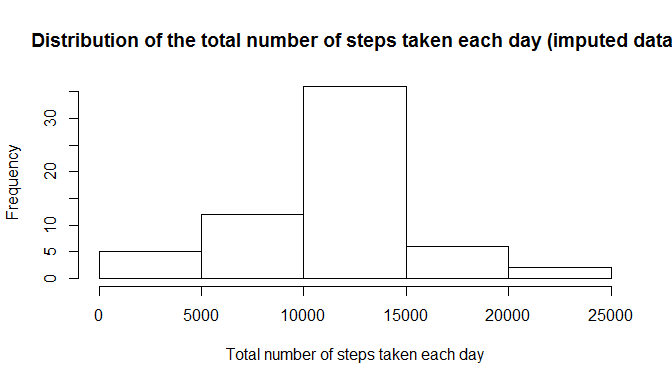
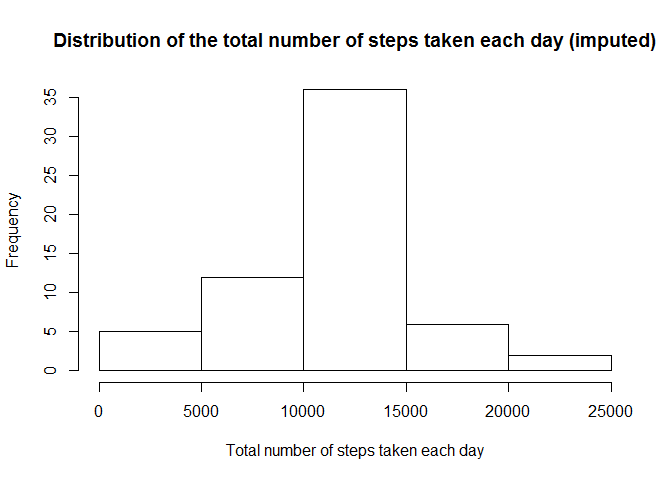
Tuning algorithm for imputing
use the match() function

diff --git a/PA1_template.html b/PA1_template.html
@@ -204,9 +204,9 @@ hr {
 <h2>Initialization</h2>
 
 <p>The following code was used to:<br/>
-(a) load the knitr package<br/>
-(b) make echo = TRUE and message = FALSE as default<br/>
-&copy; suppress scientific notation</p>
+a. load the knitr package<br/>
+b. make echo = TRUE and message = FALSE as default<br/>
+c. suppress scientific notation</p>
 
 <pre><code class="r">if (!require(&quot;knitr&quot;)){
   install.packages(&quot;knitr&quot;)
@@ -257,8 +257,8 @@ medianDailySteps = median(dailySteps$totalSteps)
 </code></pre>
 
 <p>Rounded to 2 decimal places,<br/>
-(a) the mean of the total number of steps taken per day = 9354.23<br/>
-(b) the median of the total number of steps taken per day = 10395.00</p>
+a. the mean of the total number of steps taken per day = 9354.23<br/>
+b. the median of the total number of steps taken per day = 10395.00</p>
 
 <h2>What is the average daily activity pattern?</h2>
 
@@ -299,7 +299,7 @@ plot(averageSteps5min,type=&quot;l&quot;,
 imputedActivity$imputedSteps = activity$steps
 imputedActivity = ddply(imputedActivity,&quot;interval&quot;,mutate,
                         imputedSteps = ifelse(is.na(steps),
-                        averageSteps5min[averageSteps5min$interval==interval,&quot;averageSteps&quot;],
+                        averageSteps5min[match(interval,averageSteps5min$interval),&quot;averageSteps&quot;],
                         steps))
 imputedActivity = arrange(imputedActivity,date,interval)
 </code></pre>
@@ -321,8 +321,8 @@ medianImputedDailySteps = median(imputedDailySteps$totalSteps)
 </code></pre>
 
 <p>After imputing,<br/>
-(a) the mean of the total number of steps taken per day changed from 9354.23 to 10766.19 (diff = 1411.96)<br/>
-(b) the median of the total number of steps taken per day changed from 10395.00 to 10766.19 (diff = 371.19)</p>
+a. the mean of the total number of steps taken per day changed from 9354.23 to 10766.19 (diff = 1411.96)<br/>
+b. the median of the total number of steps taken per day changed from 10395.00 to 10766.19 (diff = 371.19)</p>
 
 <h2>Are there differences in activity patterns between weekdays and weekends?</h2>
 
@@ -351,8 +351,8 @@ print(wplot)
[1 lines of base64/hex data omitted]
 
 <p>From the panel plot, it can be seen that:<br/>
-(a) the number of steps began to increase earlier for weekday, probably because the subject has to wake up earlier for work or school : )<br/>
-(b) the number of steps, from interval 1000 to 2000, seemed to be higher for weekend, probably due to a higher degree of freedom to walk around (no need to sit in a chair at work or at school)</p>
+a. the number of steps began to increase earlier for weekday, probably because the subject has to wake up earlier for work or school : )<br/>
+b. the number of steps, from interval 1000 to 2000, seemed to be higher for weekend, probably due to a higher degree of freedom to walk around (no need to sit in a chair at work or at school)</p>
 
 </body>
 

diff --git a/PA1_template.md b/PA1_template.md
@@ -1,17 +1,16 @@
 ---
-title: 'Reproducible Research: Peer Assessment 1'
-output:
+title: "Reproducible Research: Peer Assessment 1"
+output: 
   html_document:
-    keep_md: yes
-  word_document: default
+    keep_md: true
 ---
 
 ## Initialization
 
 The following code was used to:  
-(a) load the knitr package  
-(b) make echo = TRUE and message = FALSE as default  
-(c) suppress scientific notation
+a. load the knitr package  
+b. make echo = TRUE and message = FALSE as default  
+c. suppress scientific notation
 
 
 ```r
@@ -72,8 +71,8 @@ medianDailySteps = median(dailySteps$totalSteps)
 ```
 
 Rounded to 2 decimal places,  
-(a) the mean of the total number of steps taken per day = 9354.23  
-(b) the median of the total number of steps taken per day = 10395.00
+a. the mean of the total number of steps taken per day = 9354.23  
+b. the median of the total number of steps taken per day = 10395.00
 
 ## What is the average daily activity pattern?
 
@@ -122,7 +121,7 @@ imputedActivity = activity
 imputedActivity$imputedSteps = activity$steps
 imputedActivity = ddply(imputedActivity,"interval",mutate,
                         imputedSteps = ifelse(is.na(steps),
-                        averageSteps5min[averageSteps5min$interval==interval,"averageSteps"],
+                        averageSteps5min[match(interval,averageSteps5min$interval),"averageSteps"],
                         steps))
 imputedActivity = arrange(imputedActivity,date,interval)
 ```
@@ -148,8 +147,8 @@ medianImputedDailySteps = median(imputedDailySteps$totalSteps)
 ```
 
 After imputing,  
-(a) the mean of the total number of steps taken per day changed from 9354.23 to 10766.19 (diff = 1411.96)  
-(b) the median of the total number of steps taken per day changed from 10395.00 to 10766.19 (diff = 371.19)
+a. the mean of the total number of steps taken per day changed from 9354.23 to 10766.19 (diff = 1411.96)  
+b. the median of the total number of steps taken per day changed from 10395.00 to 10766.19 (diff = 371.19)
 
 ## Are there differences in activity patterns between weekdays and weekends?
 
@@ -182,5 +181,5 @@ print(wplot)
 ![plot of chunk averagestepsvsintervalwd](figure/averagestepsvsintervalwd-1.png) 
 
 From the panel plot, it can be seen that:  
-(a) the number of steps began to increase earlier for weekday, probably because the subject has to wake up earlier for work or school : )  
-(b) the number of steps, from interval 1000 to 2000, seemed to be higher for weekend, probably due to a higher degree of freedom to walk around (no need to sit in a chair at work or at school)
+a. the number of steps began to increase earlier for weekday, probably because the subject has to wake up earlier for work or school : )  
+b. the number of steps, from interval 1000 to 2000, seemed to be higher for weekend, probably due to a higher degree of freedom to walk around (no need to sit in a chair at work or at school)
